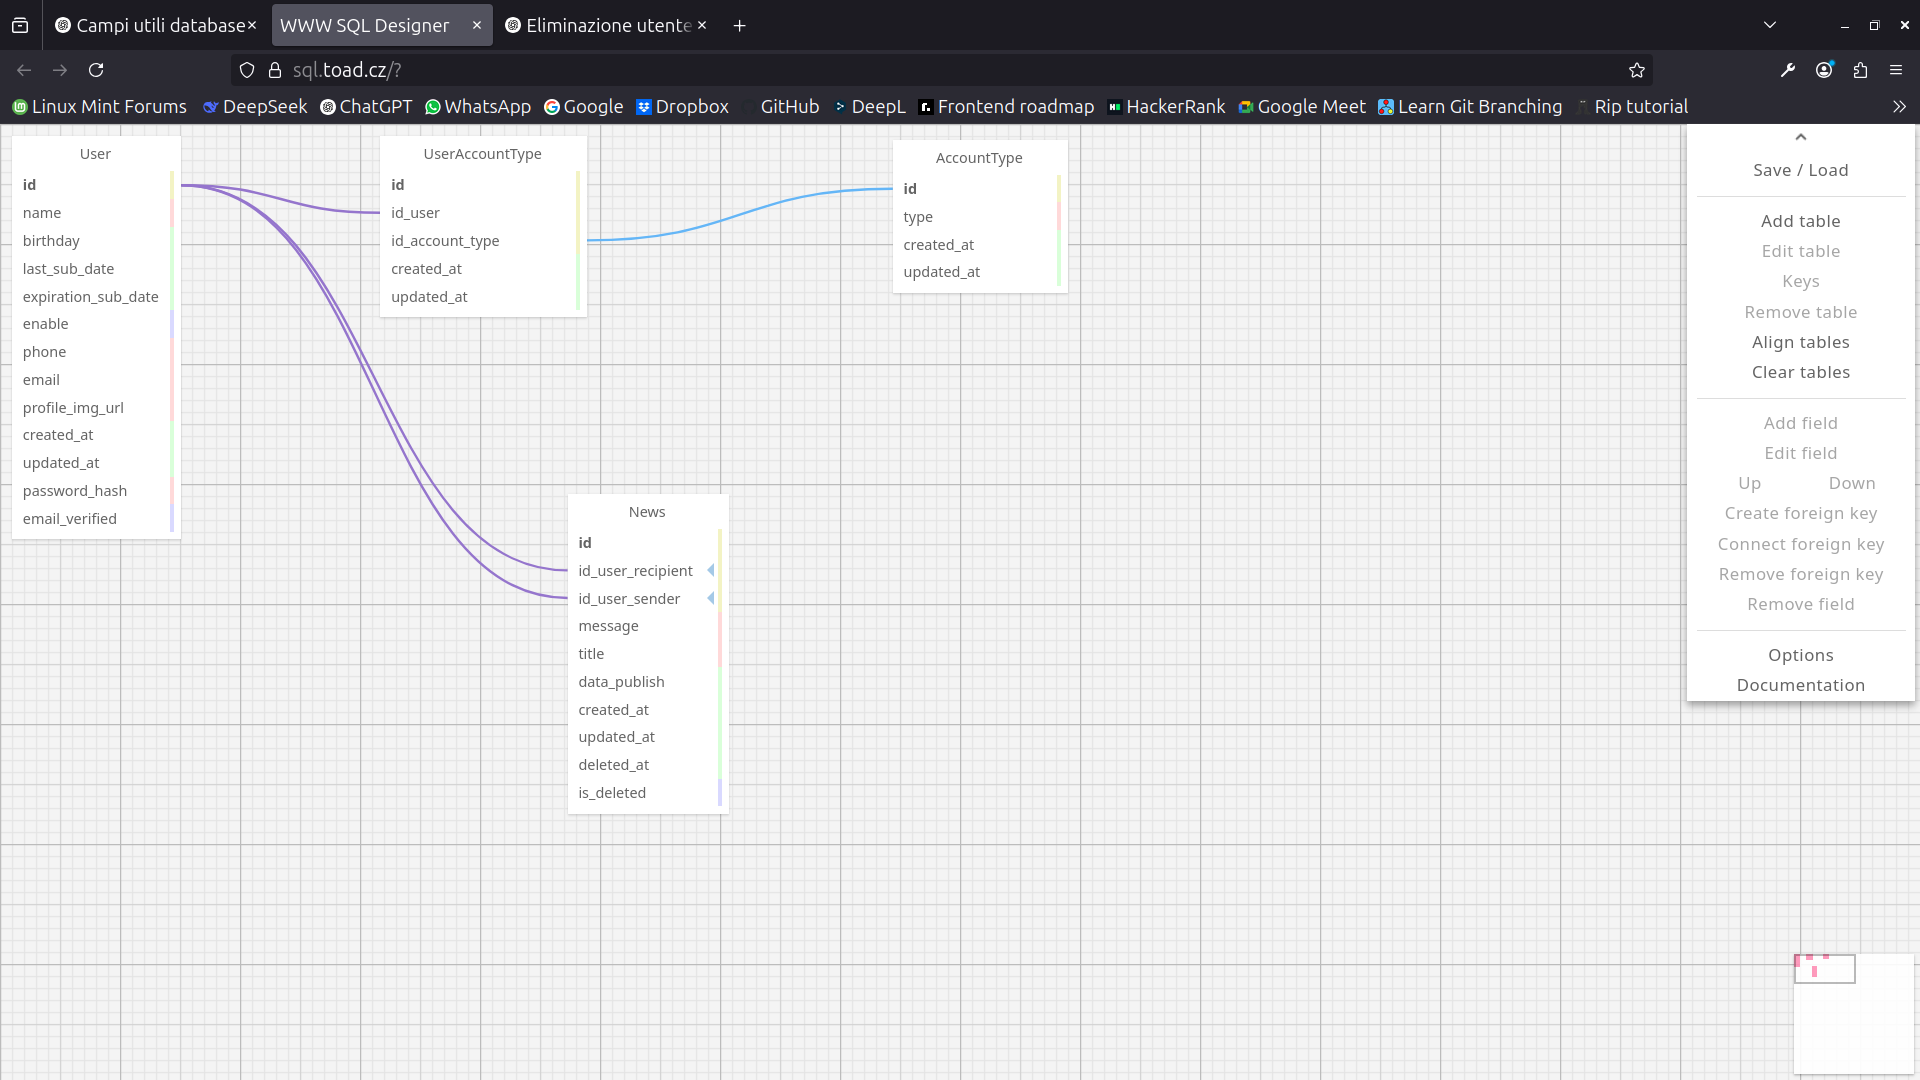
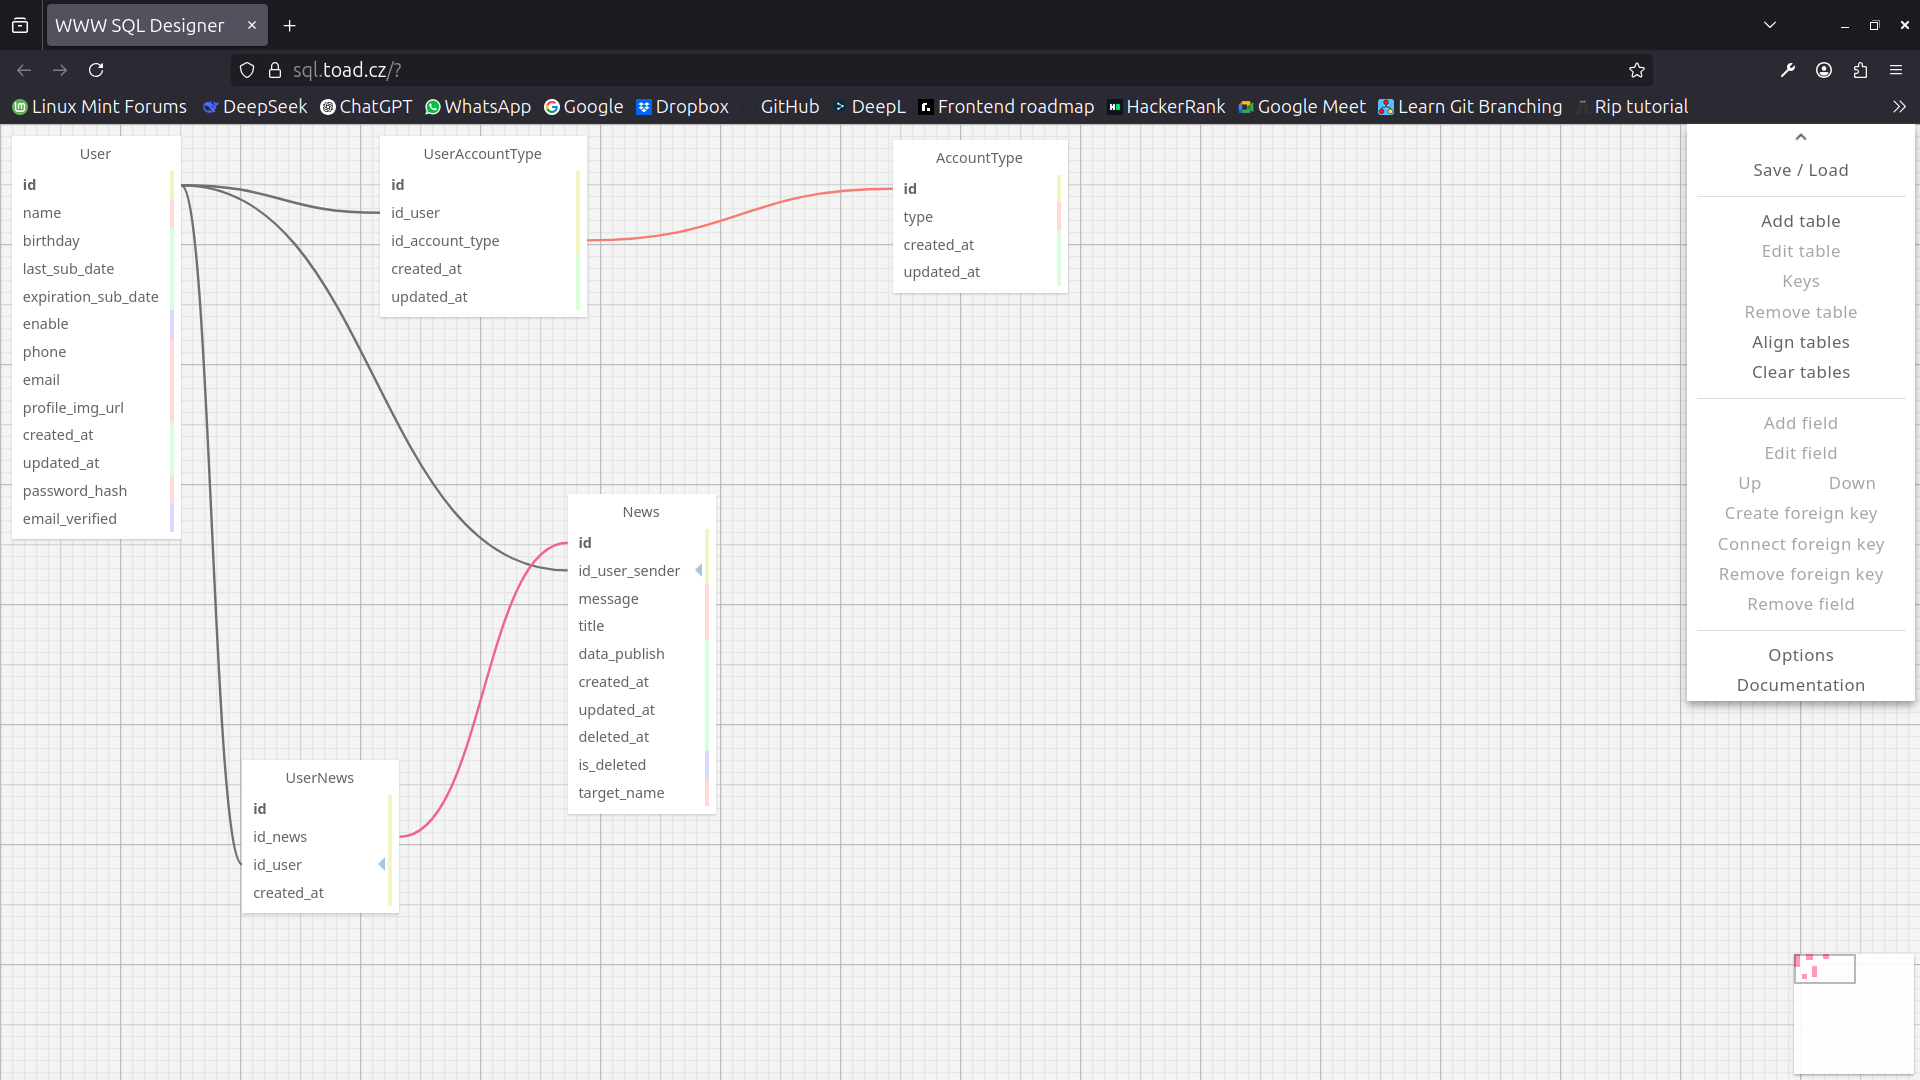
nuovo schema db + backend routes
- Nuovo schema db per gestire usernews
- Nuove routes flask API

diff --git a/backend/flask_app/app/routes.py b/backend/flask_app/app/routes.py
@@ -1,5 +1,5 @@
 from flask import Blueprint, jsonify, request
-from .db import query_db
+from .db import query_db, execute_ops_db
 
 api = Blueprint('main', __name__)
 
@@ -12,6 +12,17 @@ def index():
 def getUsers():
         users = query_db('SELECT * FROM User')
         return jsonify([dict(u) for u in users])
+
+@api.route('/get-user-info', methods=['GET'])
+def getUserInfo():
+    idUser = request.args.get("id-user", "-1")
+    
+    user = query_db("SELECT * FROM User WHERE id = ?", tuple([idUser]))
+
+    if(len(user) > 0):
+        return jsonify(dict(user[0]))
+    else:
+        return ""
 
 @api.route('/get-user-account-types', methods=['GET'])
 def getUserAccountTypes():
@@ -28,22 +39,107 @@ def getUserNews():
     offset = request.args.get('offset-sql', '0')
     limit = 10
 
-    news = query_db('SELECT * FROM News ' +
-        'WHERE id_user_recipient = ? ' +
+    news = query_db('SELECT n.title, n.message, n.data_publish, n.target_name ' +
+        'FROM UserNews un, News n ' +
+        'WHERE un.id_news = n.id AND un.id_user = ? AND n.is_deleted = 0 ' +
         'LIMIT ? OFFSET ?', tuple([idUser, limit, offset]))
 
     return jsonify([dict(n) for n in news])
 
-@api.route('get-user-news-sended', methods=['GET'])
+@api.route('/get-user-news-sended', methods=['GET'])
 def getUserNewsSended():
     idUser = request.args.get('id-user', '-1')
     offset = request.args.get('offset-sql', '0')
     limit = 10
 
     news = query_db('SELECT * FROM News ' +
-        'WHERE id_user_sender = ? ' +
+        'WHERE id_user_sender = ? AND is_deleted = 0' +
         'LIMIT ? OFFSET ?', tuple([idUser, limit, offset]))
 
     return jsonify([dict(n) for n in news])
 
 #-------------- PROCEDURES ---------------
+#TODO qui bisogna anche mettere una notifica ai vari account
+#potrei dover aggiungere una colonna per i token expo-notifications agli utenti
+@api.route('/send-news-to-groups', methods=['POST'])
+def sendNewsToGroup():
+    data = request.json
+
+    # group e' un array di account type, se contiene "all" allora invia a tutti utenti
+    groups = data.get('groups', None)
+    idUser = data.get('id-user', None) # id user sender
+    title = data.get('title', '')
+    message = data.get('message', None)
+
+    if (groups is None or idUser is None or message is None):
+        return jsonify({"error": "Bad request"}), 400
+
+    #estraggo utenti target
+    query = "SELECT u.id FROM User u, UserAccountType uat, AccountType at " + \
+        "WHERE at.id = uat.id_account_type AND uat.id_user = u.id "
+    
+    targetIdUsers = None 
+
+    if ("all" not in groups):
+        placeholders = ','.join(['?'] * len(groups))
+        query += f"AND at.type in ({placeholders})"
+        targetIdUsers = query_db(query, tuple(groups))
+    else:
+        targetIdUsers = query_db(query)
+
+    targetIdUsers = [t[0] for t in targetIdUsers]
+
+    print("Send to userIds:", targetIdUsers)
+
+    query_ops = []
+
+    #inserimento DB News
+    query_ops.append(
+        {
+            "query": (
+                "INSERT INTO News ("
+                "id_user_sender, "
+                "message, "
+                "title, "
+                "data_publish, "
+                "created_at, "
+                "updated_at, "
+                "deleted_at, "
+                "is_deleted, "
+                "target_name"
+                ") VALUES ("
+                "?, ?, ?, date('now'), datetime('now'), datetime('now'), NULL, 0, ?"
+                ")"
+            ),
+            "args": tuple([idUser, message, title, ','.join(groups)])
+        })
+
+    execute_ops_db(query_ops)
+
+    query_ops = [] #resetto lista query operazionali
+
+    #get last id news
+    lastIdNews = query_db("SELECT seq FROM sqlite_sequence WHERE name = 'News'")
+    lastIdNews = lastIdNews[0][0]
+
+    print("last id news: ", lastIdNews)
+
+    #inserimento DB UserNews
+    query = (
+        "INSERT INTO UserNews ("
+        "id_news, id_user, created_at"
+        ") VALUES ("
+        "?,"
+        "?,"
+        "datetime('now')"
+        ")"
+    )
+
+    for id in targetIdUsers:
+        execute_ops_db([{"query": query, "args": tuple([lastIdNews, id])}])
+
+    #invio notifiche
+
+    return jsonify({"status": "ok"})
+
+#TODO api anche per soft delete della news

diff --git a/backend/flask_app/app/db.py b/backend/flask_app/app/db.py
@@ -1,5 +1,10 @@
 import sqlite3
 from flask import g, current_app
+from typing import List, Tuple, TypedDict
+
+class QueryOp(TypedDict):
+    query: str
+    args: tuple
 
 def get_db():
     DATABASE = current_app.config['DATABASE_PATH']
@@ -9,10 +14,14 @@ def get_db():
         db = g._database = sqlite3.connect(DATABASE)
         db.row_factory = sqlite3.Row 
         db.execute('PRAGMA foreign_keys = ON;')
-        print("get new db connection")
+
+        fk = db.execute('PRAGMA foreign_keys;').fetchone()
+        print("get new db connection with foreign_keys = ", 
+            fk[0] if fk else "<error_fk_status_fetch>")
 
     return db
 
+#DA USARE SOLO CON FLASK ROUTES
 def query_db(query, args=()):
     db = get_db()
 
@@ -25,6 +34,25 @@ def query_db(query, args=()):
 
     return rv 
 
+#DA USARE SOLO CON FLASK ROUTES
+# se una delle operazioni fallisce non viene effettuato alcun commit (nessuna modifica al DB)
+def execute_ops_db(querys: List[QueryOp]):
+    db = get_db()
+
+    try:
+        for query_op in querys:
+            print("execute operation query: ", query_op['query'])
+            print("with args: ", query_op['args'])
+
+            cur = db.execute(query_op['query'], query_op['args'])
+
+        db.commit()
+    except Exception as e:
+        db.rollback()
+        print("error db query: ", e)
+        raise
+
+#Binding con flask
 def close_connection(exception):
     db = getattr(g, '_database', None)
 
